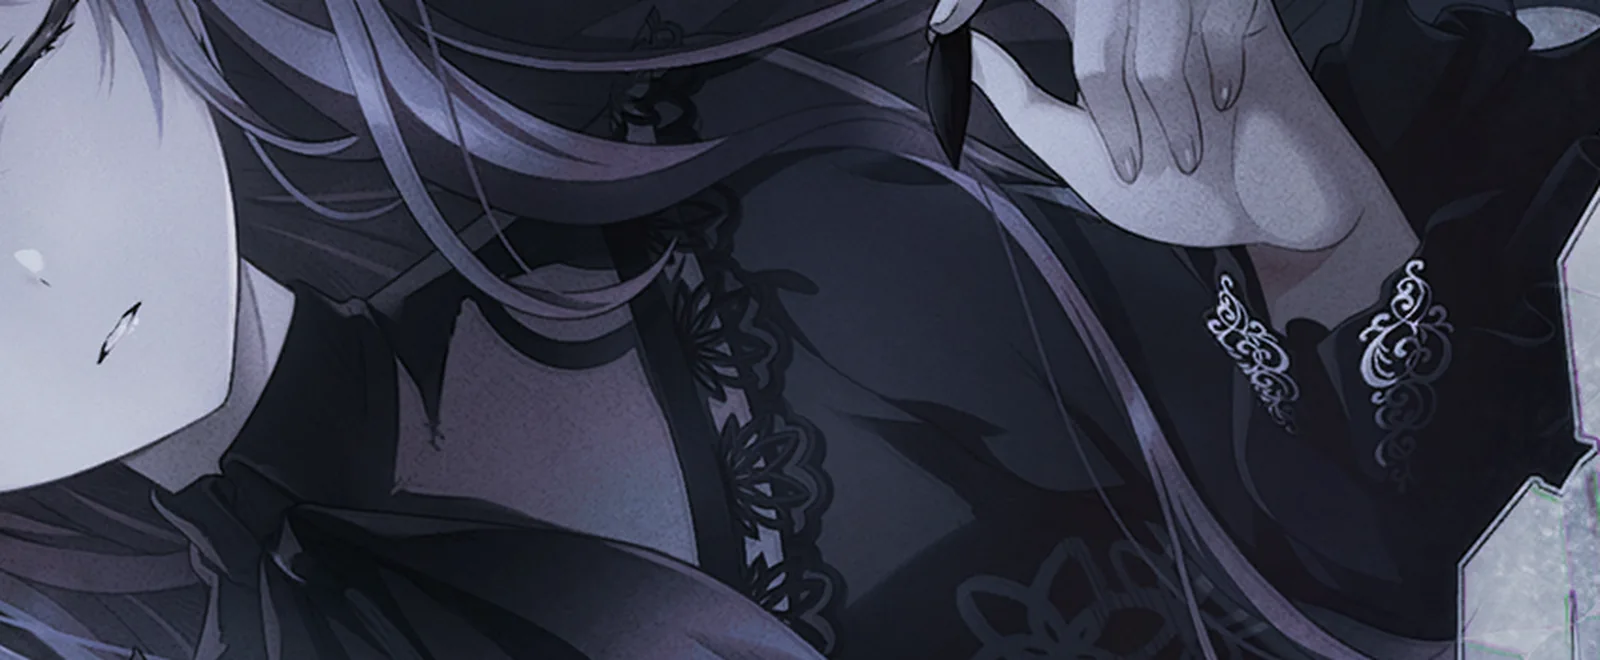
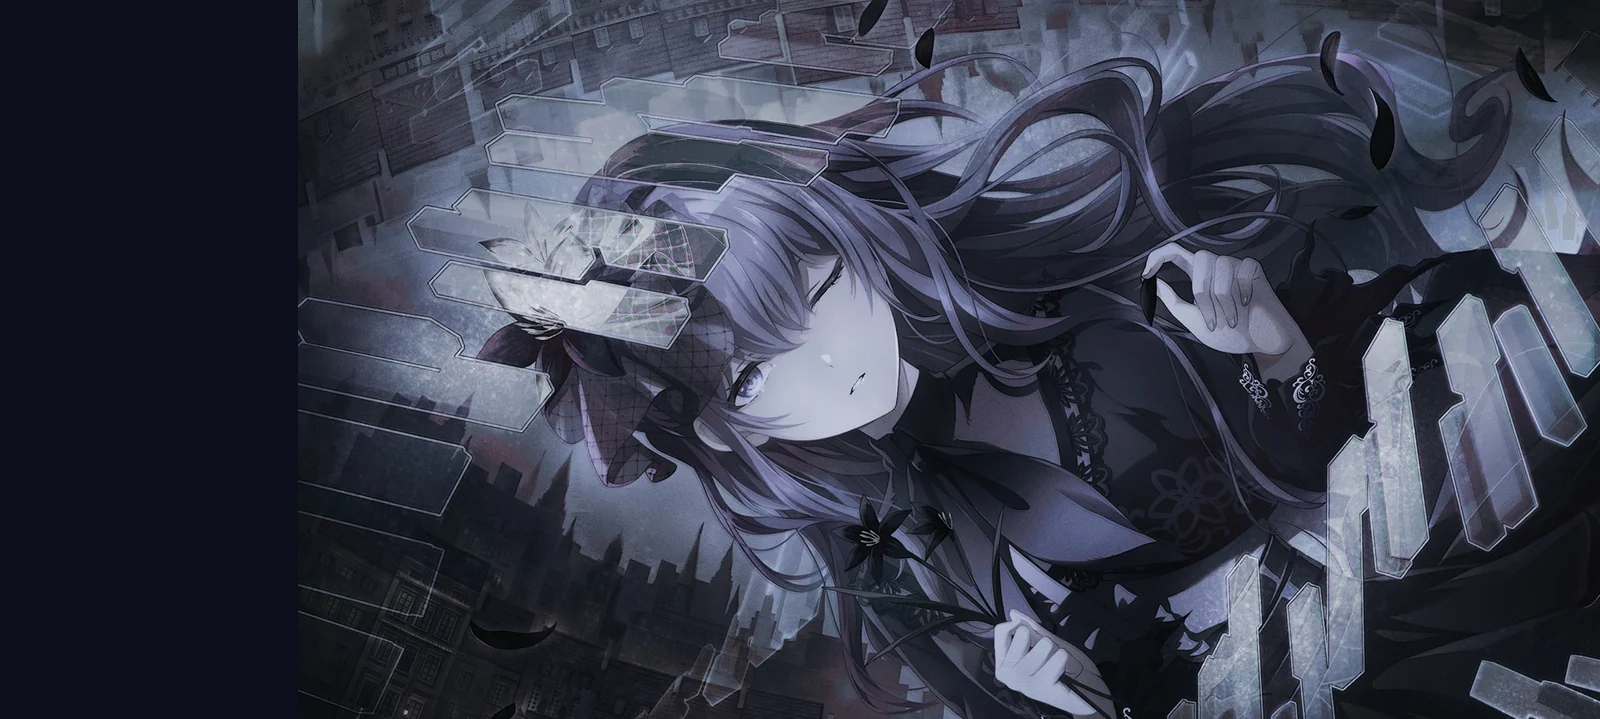
feat: 入场动画改用画布锚定法定稿（红圈标注定位 + SEKAI 标题）
- 三张特训后卡面（初雪/魔咒/心）按用户红圈标注的脸心锚定到目标坐标，贴 1600x719 暗色画布
- 脸高占屏 52%，位置：左 16.2%/39.9%、中 47.4%/41.8%、右 79.2%/38.8%；右卡上移 1/8 屏
- 标题改 '欢迎来到 Lapismind 的 SEKAI'，文字下移 1/4 屏，去掉欢迎光临
- 使用无标注原图渲染；docs 补充入场动画章节与教训（画布锚定法/红圈定位）

diff --git a/docs/lessons-learned.md b/docs/lessons-learned.md
@@ -38,6 +38,14 @@
 - 修复：`<script type="application/json" set:html={JSON.stringify(songs)}>` 注入 DOM，脚本内 `JSON.parse` 读取。
 - 教训：Astro 组件脚本与 frontmatter 的数据传递必须显式做；动态创建的元素也收不到 scoped 样式——涉及动态 DOM 的组件样式用 `is:global`。
 
+## 2026-08-22（入场动画专场）
+
+### 7. 入口动画"把卡面摆到指定位置"——裁切窗方案有数学极限，画布锚定才是正解
+- 现象：想让人脸精确落在斜切分屏的指定位置（脸小 + 位置偏），连续多轮"调背景偏移/裁切窗"都不收敛。
+- 根因：卡面是竖构图、脸在画面中段；要让"脸落到分屏边缘"需要巨大的平移余量，而裁切窗口宽度受原图限制——脸大与位置偏两者互斥，背景 position 可平移范围又只有 ±(A/R-1) 屏宽。
+- 正解：**画布锚定法**——按目标脸高把整张卡等比缩放，脸心精确锚定在目标坐标，贴到同比例暗色画布上，溢出由暗底接管；`background-position` 直接归零。位置由锚点数字决定，改一个数即可微调。
+- 复用要点：锚点来源用**用户红圈标注 → 红色像素质心**（纯几何、零误差），不要用视觉模型读动漫脸部坐标（读数相互矛盾，本次 ox/deepseek/YuNet/肤色 四套各说各话）。
+
 ## 未解决
 
 （无）

diff --git a/docs/site-features.md b/docs/site-features.md
@@ -41,6 +41,13 @@
 6. **最新博客**：文章列表。
 - 全局：右下角回到顶部按钮；右下角电台 Dock；全站细雪。
 
+### 3.1 入场欢迎动画（IntroOverlay）
+
+- 首次进入首页时全屏播放：三块斜切分屏（324 初雪之中 / 511 温柔的魔咒 / 786 拾起的心 特训后卡面）+ "欢迎来到 Lapismind 的 SEKAI"，会话内只播一次、`prefers-reduced-motion` 跳过。
+- 画面构成：每张卡按"脸高占屏 52%"等比缩放后，脸心锚定到目标坐标（左 16.2%/39.9%、中 47.4%/41.8%、右 79.2%/38.8%），贴在 1600×719 暗色画布上（与内缩盒同比例），溢出由暗底接管——杜绝"裁切窗平移极限"问题。
+- 脸心数据来源：用户红圈标注免费卡面 → 红色像素质心（见 lessons-learned 第 7 条）。
+- 节奏：停留 2s → 三块依次上掀（1.2s，错峰 0.2s/0.4s）→ 淡出，全程约 4.8s，6.5s 兜底清理。
+
 ## 4. 音乐播放器（电台 Dock）
 
 形态：右下角圆形音符钮 → 迷你条（曲绘+曲名+播放/歌词）→ 字幕剧场（中文大字幕+日文小字、进度/时间、VS/SEKAI 源切换、曲目列表、滚动歌词、缓冲提示）。全站页面通用，切页不断歌（音频对象在脚本作用域，ClientRouter 换页不销毁）。
